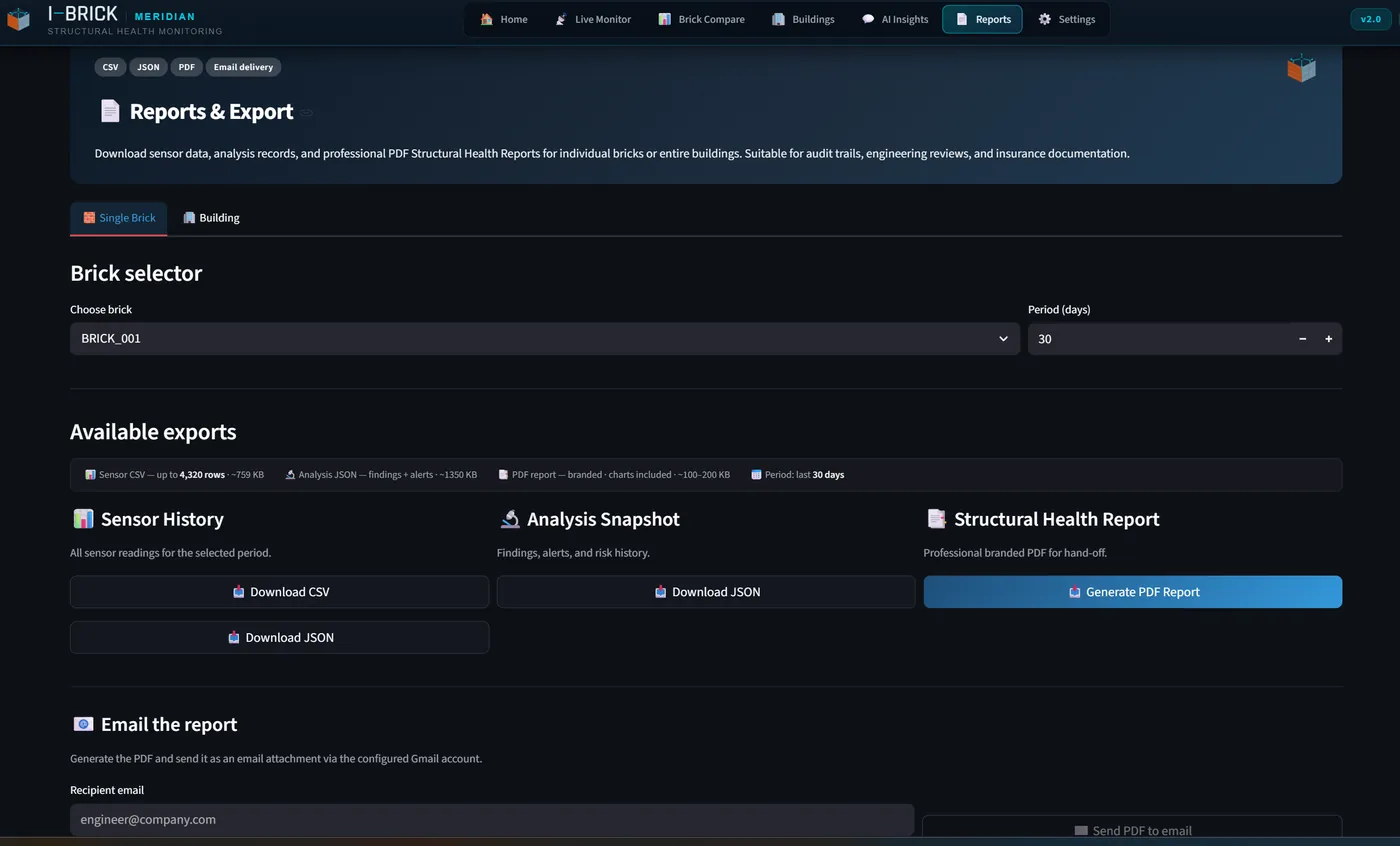
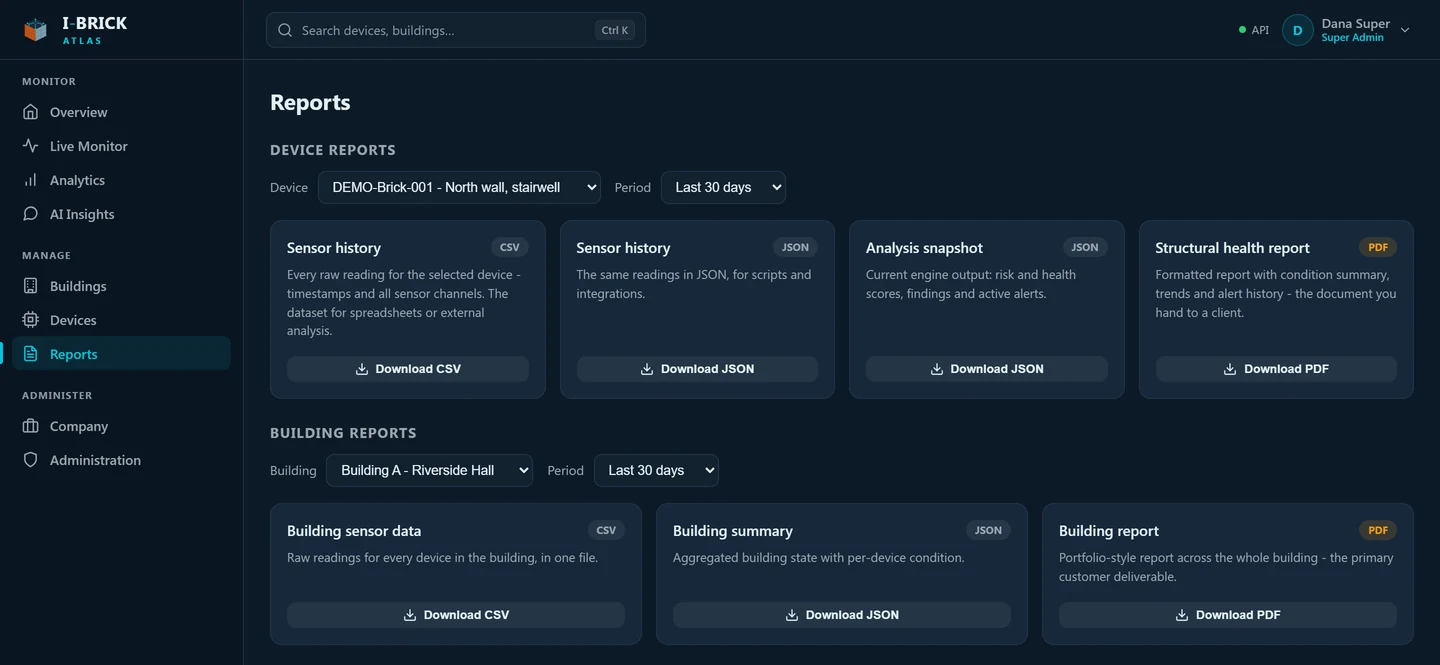
Show results, not mechanism, and refresh screens to v3.0
Removes the hardware parts, the derivation methods, the 11-layer breakdown
and the channel table. What it measures is now stated at the level agreed
internally: environmental, structural, indoor. The risk-engine section is
rebuilt around what the product is worth, cost avoided and evidence held.

Screenshots replaced with the current v3.0 build. The two dropped ones
showed derived channel tiles and named the AI stack in a status bar.

diff --git a/index.html b/index.html
@@ -4,13 +4,13 @@
 <meta charset="utf-8">
 <meta name="viewport" content="width=device-width, initial-scale=1">
 <title>I-Brick | Sensing the wall from the inside</title>
-<meta name="description" content="I-Brick is a sensor node that sits inside the wall and reports the moisture, thermal and air-quality conditions that cause envelope failure, as an explainable 0–100 risk score. Pilot programme open.">
+<meta name="description" content="I-Brick sits inside the wall and catches envelope moisture months before it is visible, as a single explainable 0–100 risk score with the reasoning attached. Pilot programme open.">
 <link rel="canonical" href="https://ckteja.github.io/i-brick/">
 
 <meta property="og:type" content="website">
 <meta property="og:site_name" content="I-Brick">
 <meta property="og:title" content="I-Brick | Sensing the wall from the inside">
-<meta property="og:description" content="A sensor node inside the wall, an explainable 0–100 risk score, and a report an engineer can act on. Pilot programme open for Q4 2026.">
+<meta property="og:description" content="Catch envelope moisture while the fix is still cheap. An explainable 0–100 risk score and a report an engineer can act on. Pilot programme open for Q4 2026.">
 <meta property="og:url" content="https://ckteja.github.io/i-brick/">
 <meta property="og:image" content="https://ckteja.github.io/i-brick/assets/og.png">
 <meta property="og:image:width" content="1200">
@@ -132,33 +132,15 @@ header .btn{padding:9px 16px}
 .step svg{width:26px;height:26px;stroke:var(--steel);fill:none;stroke-width:1.5;
   stroke-linecap:round;stroke-linejoin:round;margin-bottom:6px}
 
-/* table */
-.tbl-wrap{overflow-x:auto;margin-top:34px;border:1px solid var(--line);border-radius:12px}
-table{width:100%;border-collapse:collapse;min-width:660px;font-size:14.5px}
-th{text-align:left;padding:14px 18px;background:var(--panel-2);color:var(--faint);
-  font-size:11px;letter-spacing:2px;text-transform:uppercase;font-weight:600;white-space:nowrap}
-td{padding:13px 18px;border-top:1px solid var(--line);color:var(--dim);vertical-align:top}
-td:first-child{color:var(--text);font-weight:500;white-space:nowrap}
-.pill{display:inline-block;padding:3px 10px;border-radius:999px;font-size:11px;
-  font-weight:600;letter-spacing:.6px;text-transform:uppercase;white-space:nowrap}
-.p-m{background:rgba(46,204,113,.13);color:#57D98D;border:1px solid rgba(46,204,113,.3)}
-.p-d{background:rgba(0,200,220,.12);color:var(--cyan);border:1px solid rgba(0,200,220,.3)}
-.p-u{background:rgba(122,146,152,.14);color:#9FB6C4;border:1px solid rgba(159,182,196,.26)}
-.p-r{background:rgba(196,83,26,.14);color:#E0793F;border:1px solid rgba(196,83,26,.34)}
 .note{margin-top:20px;padding:18px 20px;border-left:2px solid var(--cyan);
   background:rgba(0,200,220,.05);border-radius:0 8px 8px 0;font-size:15px;color:var(--dim)}
 .note b{color:var(--text)}
 
-/* layers + bands */
-.layers{display:flex;flex-wrap:wrap;gap:9px;margin-top:32px}
-.layer{display:flex;align-items:center;gap:9px;padding:9px 14px;border-radius:8px;
-  background:var(--panel);border:1px solid var(--line);font-size:13.5px;color:var(--dim)}
-.layer i{font-family:var(--display);font-style:normal;font-weight:700;font-size:12px;color:var(--cyan)}
+/* bands */
 .bands{display:grid;grid-template-columns:repeat(4,1fr);gap:12px;margin-top:30px}
 @media(max-width:640px){.bands{grid-template-columns:1fr 1fr}}
 .band{border:1px solid var(--line);border-radius:10px;padding:16px 18px;background:var(--panel)}
 .band .k{font-family:var(--display);font-weight:700;font-size:15px;letter-spacing:1px}
-.band .r{font-size:12px;color:var(--faint);margin-top:2px}
 .band .a{font-size:13px;color:var(--dim);margin-top:9px}
 .band.b1{border-left:3px solid var(--ok)} .band.b1 .k{color:var(--ok)}
 .band.b2{border-left:3px solid var(--warn)} .band.b2 .k{color:var(--warn)}
@@ -224,8 +206,8 @@ footer .cr{margin-top:18px;font-size:12.5px;color:#5C7684;max-width:70ch}
     </a>
     <nav>
       <a href="#how">How it works</a>
-      <a href="#measures">What it measures</a>
-      <a href="#engine">Risk engine</a>
+      <a href="#measures">What it watches</a>
+      <a href="#engine">What it is worth</a>
       <a href="#pilot">Pilot</a>
       <a class="btn btn-p" href="#contact">Apply for a pilot</a>
     </nav>
@@ -244,17 +226,17 @@ footer .cr{margin-top:18px;font-size:12.5px;color:#5C7684;max-width:70ch}
   <div class="wrap">
     <span class="chip"><span class="pulse"></span> Pilot programme open · 4 sites, Q4 2026</span>
     <h1>By the time you can see the damp patch, it has been <em>growing for months</em>.</h1>
-    <p class="lede">I-Brick is a sensor node that sits inside the wall and reports the moisture,
-      thermal and air-quality conditions that drive envelope failure, as an explainable
-      0–100 risk score with the reasoning attached, not a raw data dump.</p>
+    <p class="lede">I-Brick sits inside the wall and watches the conditions that drive envelope
+      failure, turning them into a single 0–100 risk score with the reasoning attached. You get a
+      decision, months before the damage is visible, not a raw data dump.</p>
     <div class="cta">
       <a class="btn btn-p" href="#contact">Apply for a pilot →</a>
-      <a class="btn btn-s" href="#measures">See exactly what it measures</a>
+      <a class="btn btn-s" href="#measures">See what it watches for</a>
     </div>
     <div class="spec">
-      <span><b>Hardware:</b> ESP32-class node · BME680 · LSM6DS3 IMU · Wi-Fi or LoRa</span>
-      <span><b>Backend:</b> FastAPI · PostgreSQL · analysis worker</span>
-      <span><b>Output:</b> live dashboard · alerts · PDF report</span>
+      <span><b>Install:</b> one wall, no disruption to the occupant</span>
+      <span><b>Runs:</b> continuously, reporting on its own</span>
+      <span><b>Output:</b> live dashboard · alerts · engineer-ready report</span>
     </div>
   </div>
 </div>
@@ -300,24 +282,24 @@ footer .cr{margin-top:18px;font-size:12.5px;color:#5C7684;max-width:70ch}
       </div>
       <div class="step">
         <svg viewBox="0 0 24 24"><rect x="4" y="4" width="16" height="16" rx="2"/><path d="M9 9h6v6H9zM2 9h2M2 15h2M20 9h2M20 15h2M9 2v2M15 2v2M9 20v2M15 20v2"/></svg>
-        <div class="n">02 · EDGE</div>
-        <h3>Local processing</h3>
-        <p>The board holds its own thresholds and rolling baselines, keeps working when the
-           network drops, and pushes over Wi-Fi, or LoRa on sites without coverage.</p>
+        <div class="n">02 · ON SITE</div>
+        <h3>Works unattended</h3>
+        <p>It keeps recording through network outages and reports on its own once connection
+           returns. Nobody has to visit the wall, and nothing is lost while they don't.</p>
       </div>
       <div class="step">
         <svg viewBox="0 0 24 24"><path d="M12 2v6M12 16v6M4.9 4.9l4.2 4.2M14.9 14.9l4.2 4.2M2 12h6M16 12h6M4.9 19.1l4.2-4.2M14.9 9.1l4.2-4.2"/><circle cx="12" cy="12" r="3"/></svg>
-        <div class="n">03 · ENGINE</div>
-        <h3>11-layer risk analysis</h3>
-        <p>Physics first: dew point, absolute humidity, surface RH, heat flux. Then trend,
-           anomaly and forecast layers on top, fused into one score.</p>
+        <div class="n">03 · ANALYSIS</div>
+        <h3>One score, not a spreadsheet</h3>
+        <p>Readings become a single risk score for that wall, with the conditions that drove it
+           named in plain language. No interpretation required from whoever opens it.</p>
       </div>
       <div class="step">
         <svg viewBox="0 0 24 24"><rect x="3" y="3" width="18" height="14" rx="2"/><path d="M7 21h10M12 17v4M7 12l3-3 2.5 2.5L17 7"/></svg>
         <div class="n">04 · ACT</div>
         <h3>Dashboard, alerts, report</h3>
-        <p>A live portfolio view, threshold and predicted alerts, and a PDF inspection report
-           per node or per building for hand-off to an engineer or insurer.</p>
+        <p>A live view across every wall you monitor, alerts before a threshold is crossed rather
+           than after, and a PDF report per wall or per building for hand-off to an engineer or insurer.</p>
       </div>
     </div>
   </div>
@@ -325,63 +307,70 @@ footer .cr{margin-top:18px;font-size:12.5px;color:#5C7684;max-width:70ch}
 
 <section id="measures">
   <div class="wrap">
-    <span class="eyebrow">What it measures</span>
-    <h2 class="mt14">The honest channel list.</h2>
-    <p class="lede">Most monitoring products blur the line between what the hardware measured, what
-      software inferred, and what nobody checked at all. This is the full breakdown for the current node.</p>
-    <div class="tbl-wrap">
-      <table>
-        <thead><tr><th>Channel</th><th>Status</th><th>How</th></tr></thead>
-        <tbody>
-          <tr><td>Temperature</td><td><span class="pill p-m">Measured</span></td><td>BME680, on the node inside the wall build-up</td></tr>
-          <tr><td>Relative humidity</td><td><span class="pill p-m">Measured</span></td><td>BME680</td></tr>
-          <tr><td>Barometric pressure</td><td><span class="pill p-m">Measured</span></td><td>BME680</td></tr>
-          <tr><td>Gas resistance (MOX)</td><td><span class="pill p-m">Measured</span></td><td>BME680 metal-oxide element, in kΩ</td></tr>
-          <tr><td>Vibration RMS</td><td><span class="pill p-m">Measured</span></td><td>LSM6DS3 IMU, RMS over the sampling window</td></tr>
-          <tr><td>Dew point &amp; dew-point margin</td><td><span class="pill p-d">Derived</span></td><td>Magnus formula, from temperature and RH</td></tr>
-          <tr><td>Absolute humidity</td><td><span class="pill p-d">Derived</span></td><td>Thermodynamic, from temperature and RH</td></tr>
-          <tr><td>Surface RH</td><td><span class="pill p-d">Derived</span></td><td>Modelled at the wall surface, where mould actually grows</td></tr>
-          <tr><td>Heat flux</td><td><span class="pill p-d">Derived</span></td><td>Deviation from the wall's own learned thermal baseline</td></tr>
-          <tr><td>VOC / air-quality signal</td><td><span class="pill p-d">Derived</span></td><td>Gas resistance compensated for humidity and temperature, then scored against this device's own baseline in robust sigma</td></tr>
-          <tr><td>Vibration frequency</td><td><span class="pill p-u">Not measured</span></td><td>Needs burst sampling the node does not do. Stored as null, never estimated</td></tr>
-          <tr><td>Air infiltration / pressure Δ</td><td><span class="pill p-u">Not measured</span></td><td>No differential pressure sensor fitted. Reported as unassessed, not as zero</td></tr>
-          <tr><td>Crack width &amp; strain</td><td><span class="pill p-r">Roadmap</span></td><td>Needs a strain-gauge variant of the node. Not claimed today</td></tr>
-        </tbody>
-      </table>
+    <span class="eyebrow">What it watches</span>
+    <h2 class="mt14">Three things worth knowing about a wall.</h2>
+    <p class="lede">A wall fails slowly, and it signals long before anyone sees a stain. I-Brick
+      watches the three families of condition that matter, from inside the build-up rather than from
+      the room, and reports what they mean rather than what they read.</p>
+    <div class="grid g3" style="margin-top:36px">
+      <div class="card">
+        <h3>Environmental</h3>
+        <p>Whether the wall is wetting, drying, or holding water it should have shed by now, and how
+          it responds to the weather working against it. This is the signal that separates a wall
+          recovering from one November storm from a wall that never recovers at all.</p>
+      </div>
+      <div class="card">
+        <h3>Structural</h3>
+        <p>Change in how the fabric itself behaves over time. A wall in trouble starts behaving
+          differently long before it cracks, so a developing problem arrives as a trend on a chart
+          instead of as a phone call from a tenant.</p>
+      </div>
+      <div class="card">
+        <h3>Indoor</h3>
+        <p>The conditions occupants are actually living in, and whether they track with what the wall
+          is doing or diverge from it. A divergence tells you the problem is the building, not the
+          household, which is usually the question in dispute.</p>
+      </div>
     </div>
-    <p class="note"><b>The rule the product enforces:</b> when a channel has no sensor behind it, the
-      system reports it as <em>unassessed</em> instead of printing a number. A risk score that quietly
-      treats “not measured” as “measured zero” is worse than no score at all, so ours refuses to.</p>
+    <p class="note"><b>The rule the product enforces:</b> when we have not measured something, we say
+      so. A risk score that quietly treats “not measured” as “measured and fine” is worse than no
+      score at all, so ours reports it as <em>unassessed</em> and moves on.</p>
   </div>
 </section>
 
 <section id="engine">
   <div class="wrap">
-    <span class="eyebrow">The risk engine</span>
-    <h2 class="mt14">A score you can argue with.</h2>
-    <p class="lede">Eleven layers run over every reading: rule-first, physics wherever physics exists,
-      machine learning only where it earns its place. Each layer contributes a weighted component, and
-      every score arrives with its contributing causes attached.</p>
+    <span class="eyebrow">What it is worth</span>
+    <h2 class="mt14">Cheap while it is still condensation. Expensive once it is a repair.</h2>
+    <p class="lede">Envelope moisture is not a sudden event, it is a slow one that gets priced at the
+      end. Every month it runs undetected moves it further up a cost curve that starts at ventilation
+      and ends at replacing fabric, relocating an occupant, or arguing liability with a lawyer.</p>
 
-    <div class="layers">
-      <span class="layer"><i>01</i> Single-parameter risk</span>
-      <span class="layer"><i>02</i> Multi-parameter interaction</span>
-      <span class="layer"><i>03</i> Condensation &amp; dew point</span>
-      <span class="layer"><i>04</i> Forecast (3–6 months)</span>
-      <span class="layer"><i>05</i> Inverse root-cause</span>
-      <span class="layer"><i>06</i> ML anomaly detection</span>
-      <span class="layer"><i>07</i> Data-quality validation</span>
-      <span class="layer"><i>08</i> Sudden-change detection</span>
-      <span class="layer"><i>09</i> Seasonal adjustment</span>
-      <span class="layer"><i>10</i> Structural trend</span>
-      <span class="layer"><i>11</i> Early warning</span>
+    <div class="grid g3" style="margin-top:36px">
+      <div class="card">
+        <h3>Catch it while it is still cheap</h3>
+        <p>An alert while the wall is merely damp is a fan, a vent, or a drying schedule. The same
+          wall eighteen months later is plaster, insulation, decoration and a displaced tenant. The
+          average water damage claim runs to $15,400 before anyone has argued about cause.</p>
+      </div>
+      <div class="card">
+        <h3>Have evidence when the claim lands</h3>
+        <p>Damp disputes turn on what the wall was doing and when. A continuous record answers that
+          in an afternoon rather than an expert survey, whether you are defending a handover, a
+          repairing obligation, or an insurance position.</p>
+      </div>
+      <div class="card">
+        <h3>Send people where the problem is</h3>
+        <p>Blanket surveys cost the same whether or not they find anything. Ranked risk across a
+          portfolio means the visit goes to the wall that needs it, and the other eleven wait.</p>
+      </div>
     </div>
 
     <div class="bands">
-      <div class="band b1"><div class="k">LOW</div><div class="r">0–34</div><div class="a">Routine monitoring.</div></div>
-      <div class="band b2"><div class="k">MEDIUM</div><div class="r">35–54</div><div class="a">Investigate at next visit.</div></div>
-      <div class="band b3"><div class="k">HIGH</div><div class="r">55–74</div><div class="a">Intervene before damage.</div></div>
-      <div class="band b4"><div class="k">CRITICAL</div><div class="r">75–100</div><div class="a">Act now.</div></div>
+      <div class="band b1"><div class="k">LOW</div><div class="a">Routine monitoring.</div></div>
+      <div class="band b2"><div class="k">MEDIUM</div><div class="a">Investigate at next visit.</div></div>
+      <div class="band b3"><div class="k">HIGH</div><div class="a">Intervene before damage.</div></div>
+      <div class="band b4"><div class="k">CRITICAL</div><div class="a">Act now.</div></div>
     </div>
 
     <div class="sample">
@@ -390,11 +379,11 @@ footer .cr{margin-top:18px;font-size:12.5px;color:#5C7684;max-width:70ch}
         <span class="tag">Illustrative output</span>
       </div>
       <div class="bd">
-        <b>Surface RH held above 80% for 9 of the last 12 hours</b> while the dew-point margin closed
-        to 1.2 °C, so condensation is intermittently occurring on the inner face. The gas signal sits
-        2.1σ below this node's own baseline, which is what separates <b>active microbial growth</b> from
-        transient humidity. Heat flux runs 38 W/m² above baseline for this orientation, consistent with
-        a wet, more conductive wall section. Infiltration: <b>unassessed</b>, no differential pressure sensor fitted.
+        <b>This wall has been wet for most of the last twelve hours</b>, and it is not drying between
+        episodes the way the rest of the elevation does. The pattern is condensation forming on the
+        inner face rather than water arriving from outside, which points at ventilation and heating
+        before it points at the fabric. <b>Recommended:</b> investigate before the next cold spell,
+        while the fix is still a change in how the room is used.
       </div>
     </div>
   </div>
@@ -404,20 +393,20 @@ footer .cr{margin-top:18px;font-size:12.5px;color:#5C7684;max-width:70ch}
   <div class="wrap">
     <span class="eyebrow">The platform</span>
     <h2 class="mt14">Built, running, and boring to operate.</h2>
-    <p class="lede">Not renders. Screens from the current build: per-node channel tiles, an assistant
-      that labels its own epistemic status, and exports an engineer can file.</p>
+    <p class="lede">The dashboard is live today, not a render. Your team sees the walls they are
+      responsible for, ranked by what needs attention, and takes away a document an engineer or an
+      insurer will accept.</p>
     <div class="shots">
       <figure>
-        <div class="shot"><img src="assets/channels.webp" alt="Sensor channel tiles showing temperature, humidity, dew point, heat flux, absolute humidity, eCO2, TVOC and vibration, each with a status badge" loading="lazy" width="1300" height="190"></div>
-        <figcaption>Channel tiles for a single node, each against its own threshold band. Reading stored from a node on a test wall, 11 June 2026.</figcaption>
+        <div class="shot"><img src="assets/overview.webp" alt="Portfolio overview showing a health score of 75 out of 100, live sensor count, active alerts, the highest-risk wall, and headline findings for mould, condensation and ventilation" loading="lazy" width="1440" height="629"></div>
+        <figcaption>One score for the whole portfolio, the walls that need attention ranked above
+          the ones that do not, and the headline finding for each in words rather than numbers.</figcaption>
       </figure>
       <figure>
-        <div class="shot"><img src="assets/assistant.webp" alt="Assistant mode selector with professional and homeowner modes, noting that responses are labelled MEASURED, INFERRED or UNAVAILABLE" loading="lazy" width="1290" height="225"></div>
-        <figcaption>The assistant answers in engineer mode or plain language, and tags every claim <span style="color:#57D98D">MEASURED</span>, <span style="color:#00C8DC">INFERRED</span> or <span style="color:#9FB6C4">UNAVAILABLE</span>, so a model output is never mistaken for a reading.</figcaption>
-      </figure>
-      <figure>
-        <div class="shot"><img src="assets/reports.webp" alt="Reports and export page offering CSV, JSON and branded PDF structural health reports per brick or building" loading="lazy" width="1400" height="846"></div>
-        <figcaption>Exports per node or per building: raw CSV, analysis JSON with findings and alerts, and a branded PDF report carrying the executive summary, risk score, node metadata, latest readings, and every alert with severity, confidence and first-seen timestamp.</figcaption>
+        <div class="shot"><img src="assets/reports.webp" alt="Reports page offering CSV, JSON and branded PDF structural health reports per device and per building" loading="lazy" width="1440" height="665"></div>
+        <figcaption>Exports per wall or per building: the underlying data if you want it, and a
+          branded PDF report carrying the condition summary, the trends and the alert history,
+          which is the document you hand to a client, an engineer or an insurer.</figcaption>
       </figure>
     </div>
   </div>
@@ -442,9 +431,9 @@ footer .cr{margin-top:18px;font-size:12.5px;color:#5C7684;max-width:70ch}
       </div>
       <div class="card">
         <h3>Engineering &amp; research groups</h3>
-        <p>A programmable node, an open channel registry and a documented risk engine, for
-          building-physics studies, retrofit verification, or comparing wall build-ups under
-          the same weather.</p>
+        <p>A wall instrumented continuously under real weather, for building-physics studies,
+          retrofit verification, or comparing how different build-ups behave on the same
+          elevation across a season.</p>
       </div>
     </div>
   </div>
@@ -473,7 +462,7 @@ footer .cr{margin-top:18px;font-size:12.5px;color:#5C7684;max-width:70ch}
         <div class="h">What we need from you</div>
         <ul>
           <li><b>One wall or zone</b> with a suspected moisture or thermal problem</li>
-          <li><b>Mains power and Wi-Fi</b> within reach of the node, or tell us it has neither and we bring the LoRa variant</li>
+          <li><b>Power and network</b> within reach of the wall, or tell us it has neither and we bring the version that does not need them</li>
           <li><b>Two 30-minute calls</b>, one to scope it and one to walk through the findings</li>
           <li><b>Permission to use anonymised readings</b> to improve the risk engine. No site name, no address, no occupant data, ever</li>
         </ul>
@@ -504,7 +493,7 @@ footer .cr{margin-top:18px;font-size:12.5px;color:#5C7684;max-width:70ch}
   <div class="wrap">
     <div class="fl">
       <a href="https://i-brick-smart-environment-companion-b43bac9d.base44.app/" target="_blank" rel="noopener">Live demo (beta)</a>
-      <a href="#measures">What it measures</a>
+      <a href="#measures">What it watches</a>
       <a href="#pilot">Pilot programme</a>
       <a href="mailto:contactibricklabs@gmail.com">contactibricklabs@gmail.com</a>
     </div>
